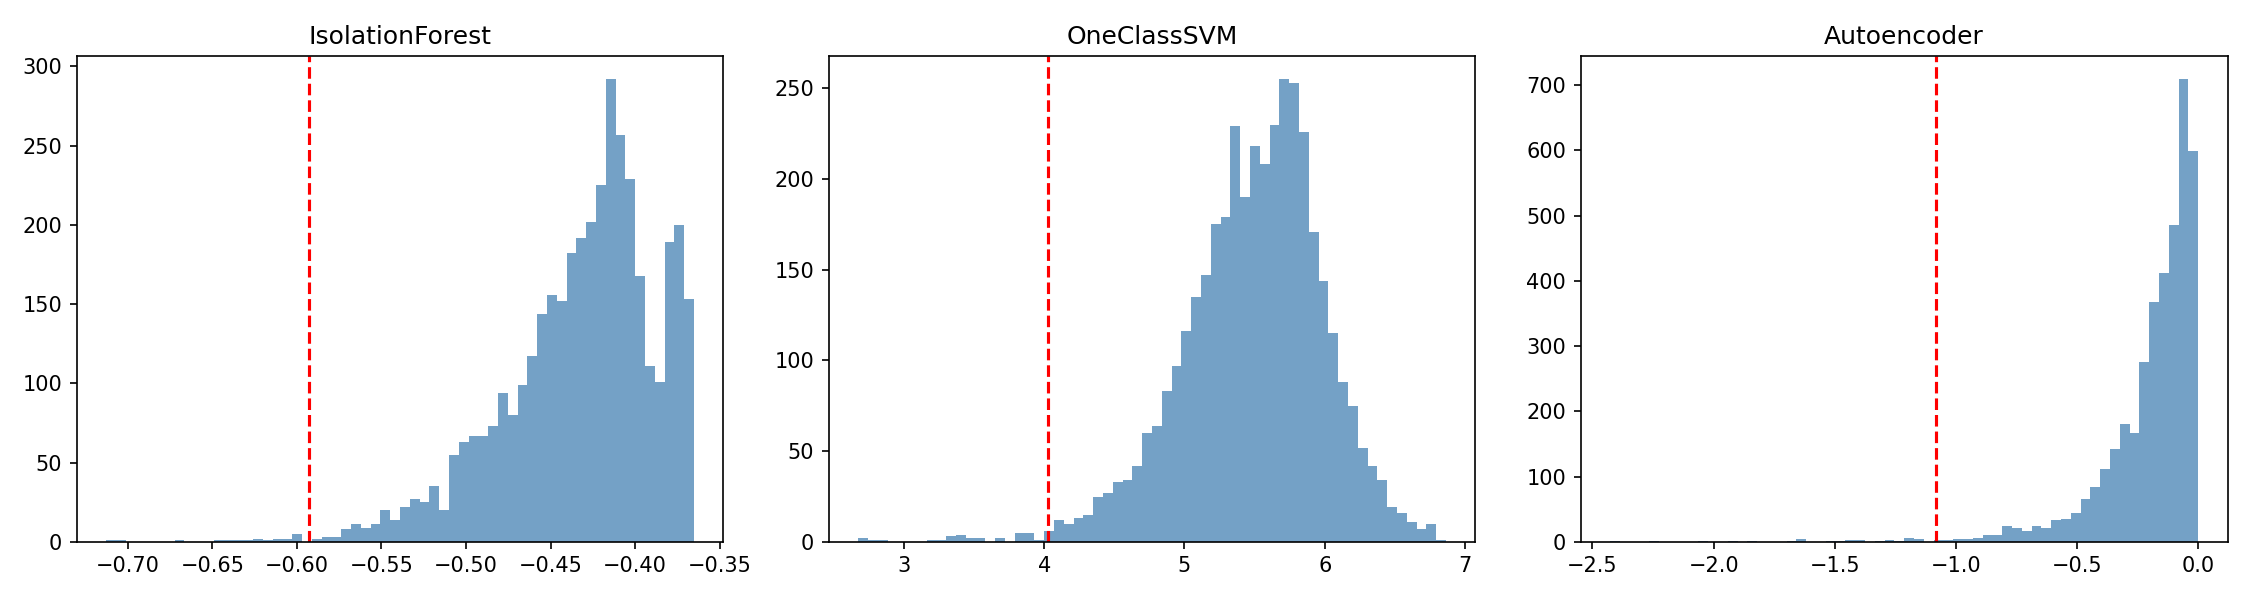
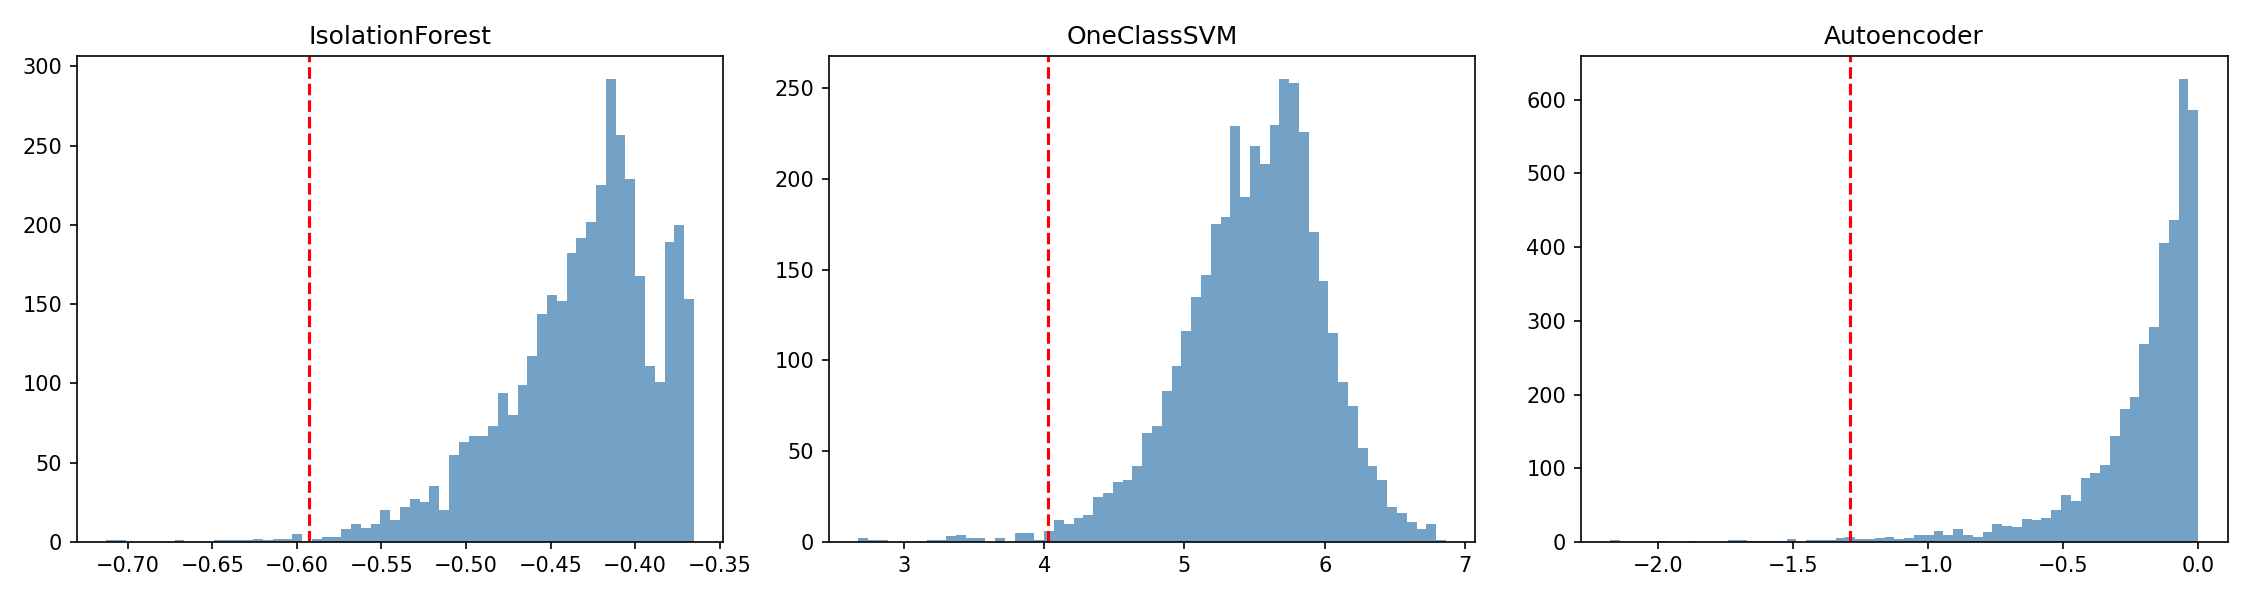
feat: add anomaly loss artifact

diff --git a/src/anomaly/pipeline.py b/src/anomaly/pipeline.py
@@ -182,6 +182,16 @@ def _plot_scores(scores: dict[str, np.ndarray], thresholds: dict, path: Path) ->
     fig.savefig(path, dpi=150)
     plt.close(fig)
 
+def _plot_losses(losses: list[float], path: Path) -> None:
+    fig, ax = plt.subplots(figsize=(8, 4))
+    ax.plot(range(1, len(losses) + 1), losses, color="darkorange", lw=1.5)
+    ax.set_title("Autoencoder training loss")
+    ax.set_xlabel("Epoch")
+    ax.set_ylabel("MSE loss")
+    fig.tight_layout()
+    fig.savefig(path, dpi=150)
+    plt.close(fig)
+
 def train_anomaly_detection(out_dir: Path = ANOMALY_DIR) -> dict:
     out_dir.mkdir(parents=True, exist_ok=True)
     df = load_detection_features()
@@ -221,11 +231,19 @@ def train_anomaly_detection(out_dir: Path = ANOMALY_DIR) -> dict:
             "auc_roc": float(roc_auc_score(y_true, -scores)),
             "test_anomaly_count": int((test_scores[name] < thresholds[name]).sum()),
         }
+    metrics["Autoencoder"]["loss"] = {
+        "initial": float(ae_losses[0]) if ae_losses else None,
+        "final": float(ae_losses[-1]) if ae_losses else None,
+        "min": float(min(ae_losses)) if ae_losses else None,
+        "epochs": len(ae_losses),
+    }
 
     model_files = _save_models(models, scaler, thresholds)
     metrics_path = write_json(out_dir / "anomaly_metrics.json", metrics)
     plot_path = out_dir / "score_distribution.png"
+    loss_plot_path = out_dir / "autoencoder_loss.png"
     _plot_scores(test_scores, thresholds, plot_path)
+    _plot_losses(ae_losses, loss_plot_path)
     run_summary = write_run_summary(out_dir, "anomaly_train", {
         "rows": len(df),
         "train_rows": len(train_df),
@@ -240,6 +258,7 @@ def train_anomaly_detection(out_dir: Path = ANOMALY_DIR) -> dict:
             "features": str(features_csv),
             "metrics": str(metrics_path),
             "plot": str(plot_path),
+            "autoencoder_loss_plot": str(loss_plot_path),
             "run_summary": str(run_summary),
             **model_files,
         },
